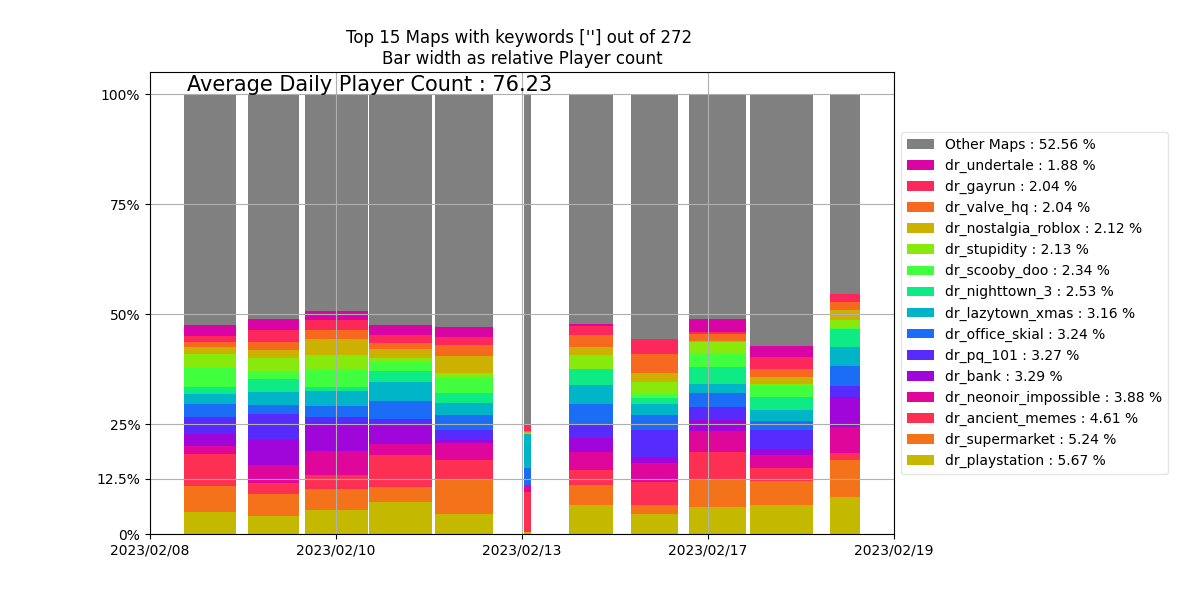
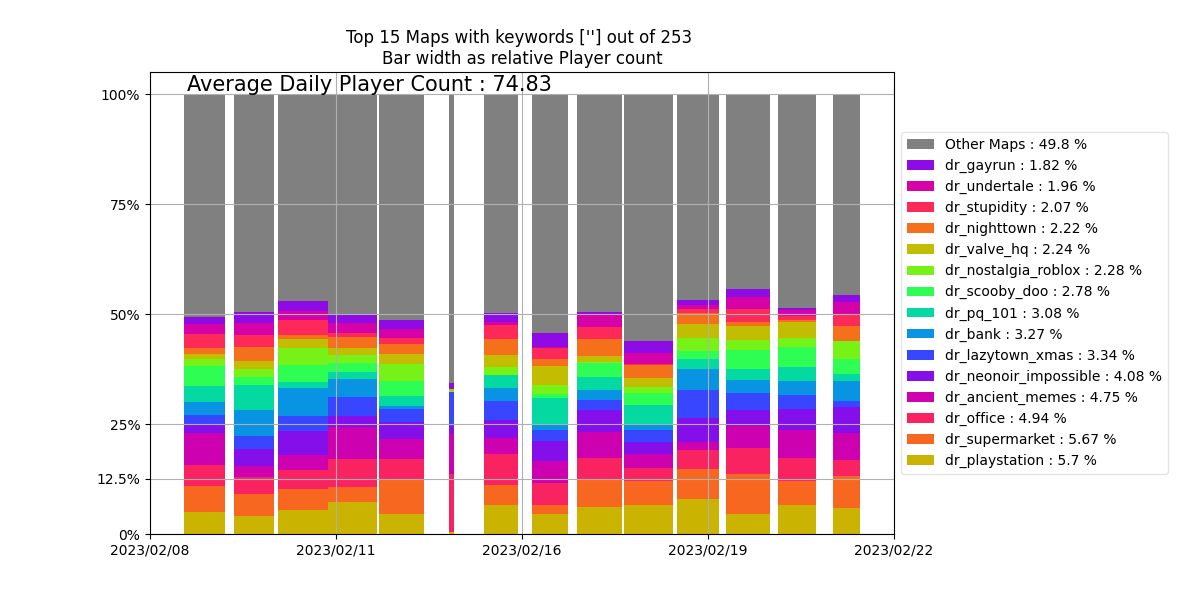
Filters now use a surperior method for finding suffixes.

Changed region(s): [[0.1542, 0.12, 0.9558, 0.9], [0.555, 0.06, 0.5858, 0.09]]

diff --git a/write.py b/write.py
@@ -10,6 +10,9 @@ from time import time,sleep
 import Parameters as p
 import argparse
 
+#Data format of csv
+#[ip,port,mapname,playercount,time,region,scanindex]
+
 #Arguments
 parser = argparse.ArgumentParser(description="SourceMapStats writer. Defaults in parameter.py",formatter_class=argparse.ArgumentDefaultsHelpFormatter)
 parser.add_argument("-g", "--game", type=str, help="Master server to use",default=p.Game)
@@ -67,20 +70,20 @@ def IpReader(IP):#returns datastack
         x += 1
 
         server = a2s.info(IP,timeout=config["servertimeout"])
-        datastack = [IP[0],IP[1],server.map_name,server.player_count]
+        rawdatastack = [IP[0],IP[1],server.map_name,server.player_count]
 
-        if PrefixEnsure(datastack[2]):
-            averagelist.append(datastack[3])
-            datastack.append(datetime.datetime.now().strftime(WriterTimeFormat))
-            internalips.append(f'!!!!{datastack} has been added')
+        if PrefixEnsure(rawdatastack[2]):
+            averagelist.append(rawdatastack[3])
+            rawdatastack.append(datetime.datetime.now().strftime(WriterTimeFormat))#adds Time to datastack
+            internalips.append(f'!!!!{rawdatastack} has been added')
             w += 1
             try:
                 response = requests.get(f"http://ip-api.com/json/{IP[0]}").json()
                 region = response["countryCode"]
             except:
                 region = "00"
-            datastack.append(region)
-            return datastack
+            rawdatastack.append(region)
+            return rawdatastack
 
     except (AttributeError,a2s.BrokenMessageError):
         y += 1
@@ -98,10 +101,10 @@ def IpReader(IP):#returns datastack
     print(f"Acceptable servers : {w}")
     print(f"Server errors : {y}")
     print(f"Timeouts : {z}")
-    print(f"scan index : {MaxStep}")
+    print(f"scan index : {CurrentScanIndex}")
     print("**************")
     try:
-        print(datastack)
+        print(rawdatastack)
     except:
         print("NONE")
     
@@ -119,15 +122,15 @@ def SlowScan():
             print("Master server request timed out!")
 
 
-def ScanMaxStep():
-    global MaxStep
-    MaxStep = 0
+def GetMaxScanIndex():
+    global CurrentScanIndex
+    CurrentScanIndex = 0
     try:
         with open(rawfilename,"r") as filedata:
             csvreader = csv.reader(filedata)
             for row in csvreader:
-                if(len(row) == 7 and MaxStep<int(row[6])):
-                    MaxStep = int(row[6])
+                if(len(row) == 7 and CurrentScanIndex<int(row[6])):
+                    CurrentScanIndex = int(row[6])
     except:
         with open(rawfilename,"w",newline="") as filedata:
             print("NO FILE, MAKING NEW")
@@ -135,7 +138,7 @@ def ScanMaxStep():
 
 #Writes the incoming datastack to a csv line.
 def CSVWriter(list):
-    global MaxStep
+    global CurrentScanIndex
     try:
         with open(rawfilename,"r") as filedata:
             print("read successful")
@@ -144,9 +147,9 @@ def CSVWriter(list):
             print("NO FILE, MAKING NEW")
 
     with open(rawfilename,"a",newline="") as filedata:
-        MaxStep += 1
+        CurrentScanIndex += 1
         for ip in list:
-            csv.writer(filedata).writerow(ip+[MaxStep])#Index used for calculating averages for playercount
+            csv.writer(filedata).writerow(ip+[CurrentScanIndex])#Adds scanindex to datastack
 
 # First part of FastScan. Searches for IP's in the CSV.
 def FastScan():
@@ -186,12 +189,12 @@ def Iterator(delay=5,FastScansTillSlow=15):
     InternalPoint = FastScansTillSlow
     while time() < end or config['runforever']:
         if InternalPoint >= FastScansTillSlow:
-            ScanMaxStep()
+            GetMaxScanIndex()
             internalmode = f"SLOW SEARCH : I scan the MASTERSERVER every {FastScansTillSlow*delay} minutes"
             CSVWriter(IpReaderMulti(SlowScan()))
             InternalPoint = 0
         else:
-            ScanMaxStep()
+            GetMaxScanIndex()
             internalmode = f"FAST SEARCH : I scan the CSV for servers instead"
             CSVWriter(IpReaderMulti(FastScan()))
             InternalPoint += 1

diff --git a/read.py b/read.py
@@ -160,6 +160,8 @@ def timechunker(AverageDays):
 def SuffixRemover(data):
     for timelist in data:
         for row in timelist:
+            if(SuffixFilter(row[2]) == "dr"):
+                print("NULLMAP")
             row[2] = SuffixFilter(row[2])
     return data
 #Merges maps that are to be considered the same map.
@@ -174,28 +176,14 @@ def DuplicateMerger(data):
             else:
                 datatemp2[firsttime].update({row[2]:int(row[3])})#adds a new dict with the player count
     return datatemp2
-#Removes worfilter suffixes from input strings
-def SuffixFilter(x):
-    newname = ""
-    prefix = re.split("_",x)[0]
-    y = re.search(prefix,x).start()
-    z = x[y:]
-    e = z.split("_")
-
-    for n in config['filter']:
-        for idx, n2 in enumerate(e):
-            if(n == n2 or n == n2[::-1]):
-                e.pop(idx)
-            elif(n in n2 and len(n)>1):
-                e.pop(idx)
-    
-    for e2 in e:
-        if(newname != ""):
-            newname += f"_{e2}"
-        else:
-            newname +=e2
-
-    return newname
+def SuffixFilter(_RawMapName):
+    RegexCutter = r"(dr_[a-zA-Z0-9]*)(?:_([a-zA-Z0-9]*))?"
+    FilterPattern = r'(?:['+p.versionfilter+r']\d)|(?:\d['+p.versionfilter+r'])|(?:'+p.wordfilter+r')'
+    m = re.match(RegexCutter, _RawMapName)
+    if(m[2] == None or re.search(FilterPattern,m[2].lower())):
+        return m[1]
+    else:
+        return m[1]+"_"+m[2]
 #Does the heavy lifting and makes sure that data is correct
 def plotter():
     print("START")
@@ -222,15 +210,9 @@ def plotter():
     force = False
     previouscolor = 0
     previousmap = None
-    RawVersionFitler = []
 
 
     print("STEP 1")
-    for version in config['versionfilter']:
-        RawVersionFitler.append(version)
-        for d in range(10):
-            RawVersionFitler.append(version+str(d))
-    config['filter'].extend(RawVersionFitler)
     print("STEP 2")
     predata = timechunker(config['averagedays'])
     print("STEP 3")
@@ -312,7 +294,7 @@ def plotter():
 
     with open(config["filelog"], 'w') as f:#writes the text file
         for label in legendlabels:
-            f.write(label)
+            f.write(f"{label}")
             f.write('\n')
 
     box = ax.get_position()

diff --git a/Parameters.py b/Parameters.py
@@ -10,10 +10,10 @@ MapsToShow = 15 #How many maps to show in order of popularity
 Start_Date = "2001-10-02" #date range to use
 End_Date = "2040-10-02"  #date range to use
 
-#Reader Filters
-OnlyMapsContaining = [""] # [""] means all maps. EX.["Playstation","Bazinga","Lazy"] or gamemodes like ["ze_"]
-wordfilter = ["fix","final","redux","finished","remake","optimized","finalplus","mini"] #Will not consider maps with these additional words to be unique
-versionfilter = ["v","b","a","rc","x","f"] #Will not consider maps with these version suffixes to be unique. "v" would mean v0-v99,v and 0v-99v
+#Filters for fixing the map names
+versionfilter = "abcvdf" # looks for version names with the following letters. Ex. "a" would look for a0-9 or 0-9a
+wordfilter = "final|redux|rc|test|fix|skial|censored|blw|vrs|alpha|beta|fin" #Suffixes to remove Ex. Final
+OnlyMapsContaining = [""] #Empty for all maps. Only show maps containing string value Ex. ["Bazinga","Playstation"]
 
 #Advanced Parameters
 OutputDimensions = (12,6)
